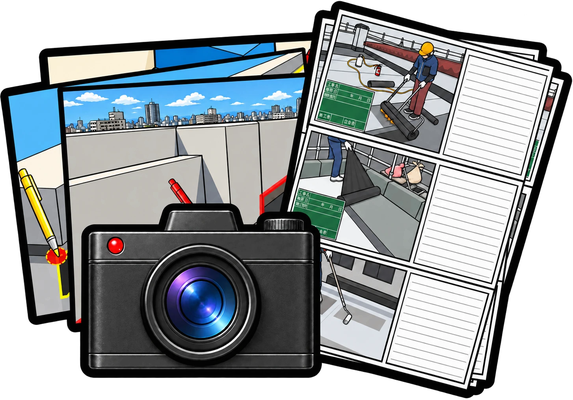
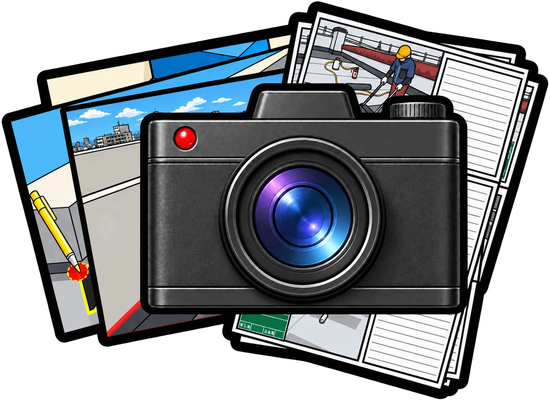
カメラの絵を作り直し版に差し替え（カメラ本体が文字に隠れないように）
Claude-Session: https://claude.ai/code/session_01SSqBungNj4wBMJYD7VEwk6

diff --git a/camera.html b/camera.html
@@ -257,7 +257,7 @@ nav .ni:last-child{margin-right:auto;}
 
 <header>
   <button class="new-btn nn-back nn-backimg" onclick="nnBack()" title="ひとつ前に戻る"><img src="./icons/btn_back.png?v=2026-09-07e" alt="戻る" onerror="var b=this.parentElement;b.classList.remove('nn-backimg');b.textContent='↩';"></button>
-  <span class="hicon"><img src="./icons/icon_camera.png?v=2026-10-26y" alt="" style="height:28px;vertical-align:middle" onerror="this.parentElement.textContent=ICONS.header"></span>
+  <span class="hicon"><img src="./icons/icon_camera.png?v=2026-10-26z" alt="" style="height:28px;vertical-align:middle" onerror="this.parentElement.textContent=ICONS.header"></span>
   <h1><span class="nnTtl">カメラ</span></h1>
   <span class="hco"><small>撮る → エッジを引く → 防水材を当てる</small></span>
 </header>
@@ -334,7 +334,7 @@ function buildNav(){
   n.innerHTML=NAV.map(([k,l])=>{
     const suf=(k===NAV_ACTIVE)?'_on':'';
     return `<div class="ni ${k===NAV_ACTIVE?'on':''}" onclick="navGo('${k}','${l}')">
-      <span class="ic"><img src="./icons/nav_${k}${suf}.png?v=2026-10-26y" alt="${l}"
+      <span class="ic"><img src="./icons/nav_${k}${suf}.png?v=2026-10-26z" alt="${l}"
         onload="this.closest('.ni').classList.add('hasimg')"
         onerror="if(!this.dataset.f){this.dataset.f=1;this.src='./icons/nav_${k}.png';}
                  else{this.outerHTML=ICONS['${k}']||'▫';}"></span><span>${l}</span></div>`;
@@ -1296,7 +1296,7 @@ nav, nav#nav{justify-content:center !important; padding-left:6px !important; pad
    古いものが出続けることがある。そこで ver.txt（数バイト）だけを
    毎回見に行き、公開版と違っていたら保存分を捨てて1回だけ読み直す。
    ★公開のたびに ver.txt と、下の NN_VER を同じ文字に更新すること。 */
-const NN_VER='2026-10-26y';
+const NN_VER='2026-10-26z';
 /* ============ 表示にかかった時間の記録（原因調査用・2026-07-28） ============
    スマホの実機でどこに時間がかかっているかを数字で出す。
    ・net  ＝ページを要求してから最初の返事が来るまで（通信の待ち）

diff --git a/index.html b/index.html
@@ -422,7 +422,7 @@ nav, nav#nav{overflow:visible; padding-top:2px;}
 
 <!-- 版の表示：スマホに届いている中身がどれかを、お互いに確認するための小さな印。
      不要になったらこの1行と #nnver の指定を消してください。 -->
-<div id="nnver">v2026-10-26 y</div>
+<div id="nnver">v2026-10-26 z</div>
 <script>
 /* ============ 実機の計測結果を表示（原因調査用・2026-07-28） ============
    数字の意味（単位はミリ秒）
@@ -522,7 +522,7 @@ function buildNav(){
   n.innerHTML=NAV.map(([k,l])=>{
     const suf=(k===NAV_ACTIVE)?'_on':'';
     return `<div class="ni ${k===NAV_ACTIVE?'on':''}" onclick="navGo('${k}','${l}')">
-      <span class="ic"><img src="./icons/nav_${k}${suf}.png?v=2026-10-26y" alt="${l}"
+      <span class="ic"><img src="./icons/nav_${k}${suf}.png?v=2026-10-26z" alt="${l}"
         onload="this.closest('.ni').classList.add('hasimg')"
         onerror="if(!this.dataset.f){this.dataset.f=1;this.src='./icons/nav_${k}.png';}
                  else{this.outerHTML=ICONS['${k}']||'▫';}"></span><span>${l}</span></div>`;
@@ -775,7 +775,7 @@ nav, nav#nav{justify-content:center !important; padding-left:6px !important; pad
    古いものが出続けることがある。そこで ver.txt（数バイト）だけを
    毎回見に行き、公開版と違っていたら保存分を捨てて1回だけ読み直す。
    ★公開のたびに ver.txt と、下の NN_VER を同じ文字に更新すること。 */
-const NN_VER='2026-10-26y';
+const NN_VER='2026-10-26z';
 /* ============ 表示にかかった時間の記録（原因調査用・2026-07-28） ============
    スマホの実機でどこに時間がかかっているかを数字で出す。
    ・net  ＝ページを要求してから最初の返事が来るまで（通信の待ち）

diff --git a/kokkosho.html b/kokkosho.html
@@ -1907,7 +1907,7 @@ function buildNav(){
   n.innerHTML=NAV.map(([k,l])=>{
     const suf=(k===NAV_ACTIVE)?'_on':'';
     return `<div class="ni ${k===NAV_ACTIVE?'on':''}" onclick="navGo('${k}','${l}')">
-      <span class="ic"><img src="./icons/nav_${k}${suf}.png?v=2026-10-26y" alt="${l}"
+      <span class="ic"><img src="./icons/nav_${k}${suf}.png?v=2026-10-26z" alt="${l}"
         onload="this.closest('.ni').classList.add('hasimg')"
         onerror="if(!this.dataset.f){this.dataset.f=1;this.src='./icons/nav_${k}.png';}
                  else{this.outerHTML=NAV_ICONS['${k}']||'▫';}"></span><span>${l}</span></div>`;
@@ -2491,7 +2491,7 @@ nav, nav#nav{justify-content:center !important; padding-left:6px !important; pad
    古いものが出続けることがある。そこで ver.txt（数バイト）だけを
    毎回見に行き、公開版と違っていたら保存分を捨てて1回だけ読み直す。
    ★公開のたびに ver.txt と、下の NN_VER を同じ文字に更新すること。 */
-const NN_VER='2026-10-26y';
+const NN_VER='2026-10-26z';
 /* ============ 表示にかかった時間の記録（原因調査用・2026-07-28） ============
    スマホの実機でどこに時間がかかっているかを数字で出す。
    ・net  ＝ページを要求してから最初の返事が来るまで（通信の待ち）

diff --git a/genba_map_v36.html b/genba_map_v36.html
@@ -4859,7 +4859,7 @@ function buildNav(){
   n.innerHTML=NAV.map(([k,l])=>{
     const suf=(k===NAV_ACTIVE)?'_on':'';
     return `<div class="ni ${k===NAV_ACTIVE?'on':''}" onclick="navGo('${k}','${l}')">
-      <span class="ic"><img src="./icons/nav_${k}${suf}.png?v=2026-10-26y" alt="${l}"
+      <span class="ic"><img src="./icons/nav_${k}${suf}.png?v=2026-10-26z" alt="${l}"
         onload="this.closest('.ni').classList.add('hasimg')"
         onerror="if(!this.dataset.f){this.dataset.f=1;this.src='./icons/nav_${k}.png';}
                  else{this.outerHTML=ICONS['${k}']||'▫';}"></span><span>${l}</span></div>`;
@@ -5048,7 +5048,7 @@ nav, nav#nav{justify-content:center !important; padding-left:6px !important; pad
    古いものが出続けることがある。そこで ver.txt（数バイト）だけを
    毎回見に行き、公開版と違っていたら保存分を捨てて1回だけ読み直す。
    ★公開のたびに ver.txt と、下の NN_VER を同じ文字に更新すること。 */
-const NN_VER='2026-10-26y';
+const NN_VER='2026-10-26z';
 /* ============ 表示にかかった時間の記録（原因調査用・2026-07-28） ============
    スマホの実機でどこに時間がかかっているかを数字で出す。
    ・net  ＝ページを要求してから最初の返事が来るまで（通信の待ち）

diff --git a/kirokucho_demo.html b/kirokucho_demo.html
@@ -3270,7 +3270,7 @@ function buildNav(){
   n.innerHTML=NAV.map(([k,l])=>{
     const suf=(k===NAV_ACTIVE)?'_on':'';
     return `<div class="ni ${k===NAV_ACTIVE?'on':''}" onclick="navGo('${k}','${l}')">
-      <span class="ic"><img src="./icons/nav_${k}${suf}.png?v=2026-10-26y" alt="${l}"
+      <span class="ic"><img src="./icons/nav_${k}${suf}.png?v=2026-10-26z" alt="${l}"
         onload="this.closest('.ni').classList.add('hasimg')"
         onerror="if(!this.dataset.f){this.dataset.f=1;this.src='./icons/nav_${k}.png';}
                  else{this.outerHTML=ICONS['${k}']||'▫';}"></span><span>${l}</span></div>`;
@@ -4928,7 +4928,7 @@ nav, nav#nav{justify-content:center !important; padding-left:6px !important; pad
    古いものが出続けることがある。そこで ver.txt（数バイト）だけを
    毎回見に行き、公開版と違っていたら保存分を捨てて1回だけ読み直す。
    ★公開のたびに ver.txt と、下の NN_VER を同じ文字に更新すること。 */
-const NN_VER='2026-10-26y';
+const NN_VER='2026-10-26z';
 /* ============ 表示にかかった時間の記録（原因調査用・2026-07-28） ============
    スマホの実機でどこに時間がかかっているかを数字で出す。
    ・net  ＝ページを要求してから最初の返事が来るまで（通信の待ち）

diff --git a/shiyo_toroku.html b/shiyo_toroku.html
@@ -1388,7 +1388,7 @@ function buildNav(){
   n.innerHTML=NAV.map(([k,l])=>{
     const suf=(k===NAV_ACTIVE)?'_on':'';
     return `<div class="ni ${k===NAV_ACTIVE?'on':''}" onclick="navGo('${k}','${l}')">
-      <span class="ic"><img src="./icons/nav_${k}${suf}.png?v=2026-10-26y" alt="${l}"
+      <span class="ic"><img src="./icons/nav_${k}${suf}.png?v=2026-10-26z" alt="${l}"
         onload="this.closest('.ni').classList.add('hasimg')"
         onerror="if(!this.dataset.f){this.dataset.f=1;this.src='./icons/nav_${k}.png';}
                  else{this.outerHTML=ICONS['${k}']||'▫';}"></span><span>${l}</span></div>`;
@@ -1821,7 +1821,7 @@ nav, nav#nav{justify-content:center !important; padding-left:6px !important; pad
    古いものが出続けることがある。そこで ver.txt（数バイト）だけを
    毎回見に行き、公開版と違っていたら保存分を捨てて1回だけ読み直す。
    ★公開のたびに ver.txt と、下の NN_VER を同じ文字に更新すること。 */
-const NN_VER='2026-10-26y';
+const NN_VER='2026-10-26z';
 /* ============ 表示にかかった時間の記録（原因調査用・2026-07-28） ============
    スマホの実機でどこに時間がかかっているかを数字で出す。
    ・net  ＝ページを要求してから最初の返事が来るまで（通信の待ち）

diff --git a/zairyo_toroku.html b/zairyo_toroku.html
@@ -1208,7 +1208,7 @@ function buildNav(){
   n.innerHTML=NAV.map(([k,l])=>{
     const suf=(k===NAV_ACTIVE)?'_on':'';
     return `<div class="ni ${k===NAV_ACTIVE?'on':''}" onclick="navGo('${k}','${l}')">
-      <span class="ic"><img src="./icons/nav_${k}${suf}.png?v=2026-10-26y" alt="${l}"
+      <span class="ic"><img src="./icons/nav_${k}${suf}.png?v=2026-10-26z" alt="${l}"
         onload="this.closest('.ni').classList.add('hasimg')"
         onerror="if(!this.dataset.f){this.dataset.f=1;this.src='./icons/nav_${k}.png';}
                  else{this.outerHTML=ICONS['${k}']||'▫';}"></span><span>${l}</span></div>`;
@@ -1613,7 +1613,7 @@ nav, nav#nav{justify-content:center !important; padding-left:6px !important; pad
    古いものが出続けることがある。そこで ver.txt（数バイト）だけを
    毎回見に行き、公開版と違っていたら保存分を捨てて1回だけ読み直す。
    ★公開のたびに ver.txt と、下の NN_VER を同じ文字に更新すること。 */
-const NN_VER='2026-10-26y';
+const NN_VER='2026-10-26z';
 /* ============ 表示にかかった時間の記録（原因調査用・2026-07-28） ============
    スマホの実機でどこに時間がかかっているかを数字で出す。
    ・net  ＝ページを要求してから最初の返事が来るまで（通信の待ち）

diff --git a/zumen_sekisan.html b/zumen_sekisan.html
@@ -5883,7 +5883,7 @@ function buildNav(){
   n.innerHTML=NAV.map(([k,l])=>{
     const suf=(k===NAV_ACTIVE)?'_on':'';
     return `<div class="ni ${k===NAV_ACTIVE?'on':''}" onclick="navGo('${k}','${l}')">
-      <span class="ic"><img src="./icons/nav_${k}${suf}.png?v=2026-10-26y" alt="${l}"
+      <span class="ic"><img src="./icons/nav_${k}${suf}.png?v=2026-10-26z" alt="${l}"
         onload="this.closest('.ni').classList.add('hasimg')"
         onerror="if(!this.dataset.f){this.dataset.f=1;this.src='./icons/nav_${k}.png';}
                  else{this.outerHTML=ICONS['${k}']||'▫';}"></span><span>${l}</span></div>`;
@@ -6342,7 +6342,7 @@ nav, nav#nav{justify-content:center !important; padding-left:6px !important; pad
    古いものが出続けることがある。そこで ver.txt（数バイト）だけを
    毎回見に行き、公開版と違っていたら保存分を捨てて1回だけ読み直す。
    ★公開のたびに ver.txt と、下の NN_VER を同じ文字に更新すること。 */
-const NN_VER='2026-10-26y';
+const NN_VER='2026-10-26z';
 /* ============ 表示にかかった時間の記録（原因調査用・2026-07-28） ============
    スマホの実機でどこに時間がかかっているかを数字で出す。
    ・net  ＝ページを要求してから最初の返事が来るまで（通信の待ち）

diff --git a/hacchu.html b/hacchu.html
@@ -378,7 +378,7 @@ function buildNav(){
   n.innerHTML=NAV.map(([k,l])=>{
     const suf=(k===NAV_ACTIVE)?'_on':'';
     return `<div class="ni ${k===NAV_ACTIVE?'on':''}" onclick="navGo('${k}','${l}')">
-      <span class="ic"><img src="./icons/nav_${k}${suf}.png?v=2026-10-26y" alt="${l}"
+      <span class="ic"><img src="./icons/nav_${k}${suf}.png?v=2026-10-26z" alt="${l}"
         onload="this.closest('.ni').classList.add('hasimg')"
         onerror="if(!this.dataset.f){this.dataset.f=1;this.src='./icons/nav_${k}.png';}
                  else{this.outerHTML=ICONS['${k}']||'▫';}"></span><span>${l}</span></div>`;
@@ -1126,7 +1126,7 @@ nav, nav#nav{justify-content:center !important; padding-left:6px !important; pad
    古いものが出続けることがある。そこで ver.txt（数バイト）だけを
    毎回見に行き、公開版と違っていたら保存分を捨てて1回だけ読み直す。
    ★公開のたびに ver.txt と、下の NN_VER を同じ文字に更新すること。 */
-const NN_VER='2026-10-26y';
+const NN_VER='2026-10-26z';
 /* ============ 表示にかかった時間の記録（原因調査用・2026-07-28） ============
    スマホの実機でどこに時間がかかっているかを数字で出す。
    ・net  ＝ページを要求してから最初の返事が来るまで（通信の待ち）

diff --git a/library.html b/library.html
@@ -417,7 +417,7 @@ function buildNav(){
   n.innerHTML=NAV.map(([k,l])=>{
     const suf=(k===NAV_ACTIVE)?'_on':'';
     return `<div class="ni ${k===NAV_ACTIVE?'on':''}" onclick="navGo('${k}','${l}')">
-      <span class="ic"><img src="./icons/nav_${k}${suf}.png?v=2026-10-26y" alt="${l}"
+      <span class="ic"><img src="./icons/nav_${k}${suf}.png?v=2026-10-26z" alt="${l}"
         onload="this.closest('.ni').classList.add('hasimg')"
         onerror="if(!this.dataset.f){this.dataset.f=1;this.src='./icons/nav_${k}.png';}
                  else{this.outerHTML=ICONS['${k}']||'▫';}"></span><span>${l}</span></div>`;
@@ -1193,7 +1193,7 @@ nav, nav#nav{justify-content:center !important; padding-left:6px !important; pad
    古いものが出続けることがある。そこで ver.txt（数バイト）だけを
    毎回見に行き、公開版と違っていたら保存分を捨てて1回だけ読み直す。
    ★公開のたびに ver.txt と、下の NN_VER を同じ文字に更新すること。 */
-const NN_VER='2026-10-26y';
+const NN_VER='2026-10-26z';
 /* ============ 表示にかかった時間の記録（原因調査用・2026-07-28） ============
    スマホの実機でどこに時間がかかっているかを数字で出す。
    ・net  ＝ページを要求してから最初の返事が来るまで（通信の待ち）

diff --git a/yougo.html b/yougo.html
@@ -317,7 +317,7 @@ function buildNav(){
   n.innerHTML=NAV.map(([k,l])=>{
     const suf=(k===NAV_ACTIVE)?'_on':'';
     return `<div class="ni ${k===NAV_ACTIVE?'on':''}" onclick="navGo('${k}','${l}')">
-      <span class="ic"><img src="./icons/nav_${k}${suf}.png?v=2026-10-26y" alt="${l}"
+      <span class="ic"><img src="./icons/nav_${k}${suf}.png?v=2026-10-26z" alt="${l}"
         onload="this.closest('.ni').classList.add('hasimg')"
         onerror="if(!this.dataset.f){this.dataset.f=1;this.src='./icons/nav_${k}.png';}
                  else{this.outerHTML=ICONS['${k}']||'▫';}"></span><span>${l}</span></div>`;
@@ -1429,7 +1429,7 @@ nav, nav#nav{justify-content:center !important; padding-left:6px !important; pad
    古いものが出続けることがある。そこで ver.txt（数バイト）だけを
    毎回見に行き、公開版と違っていたら保存分を捨てて1回だけ読み直す。
    ★公開のたびに ver.txt と、下の NN_VER を同じ文字に更新すること。 */
-const NN_VER='2026-10-26y';
+const NN_VER='2026-10-26z';
 /* ============ 表示にかかった時間の記録（原因調査用・2026-07-28） ============
    スマホの実機でどこに時間がかかっているかを数字で出す。
    ・net  ＝ページを要求してから最初の返事が来るまで（通信の待ち）

diff --git a/sw.js b/sw.js
@@ -11,7 +11,7 @@
      ので、こちらの修正が確実に端末へ届く。
      ★ページを直したら、必ずこの番号を1つ上げること。
    ============================================================ */
-const CACHE = 'nn-cache-v897';
+const CACHE = 'nn-cache-v898';
 
 const ASSETS = [
   './repair_takeoff.js',
